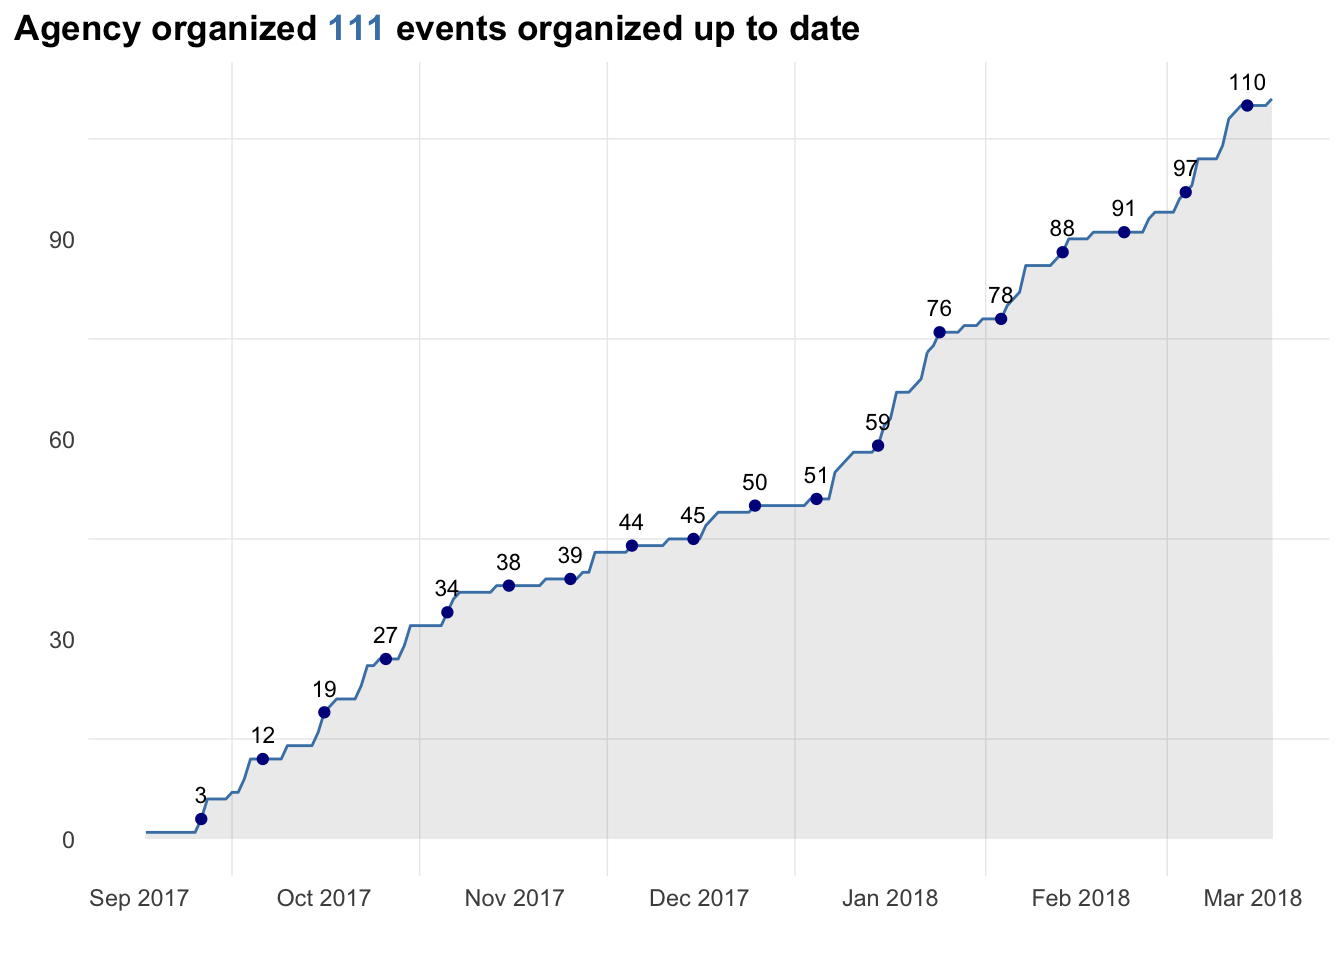
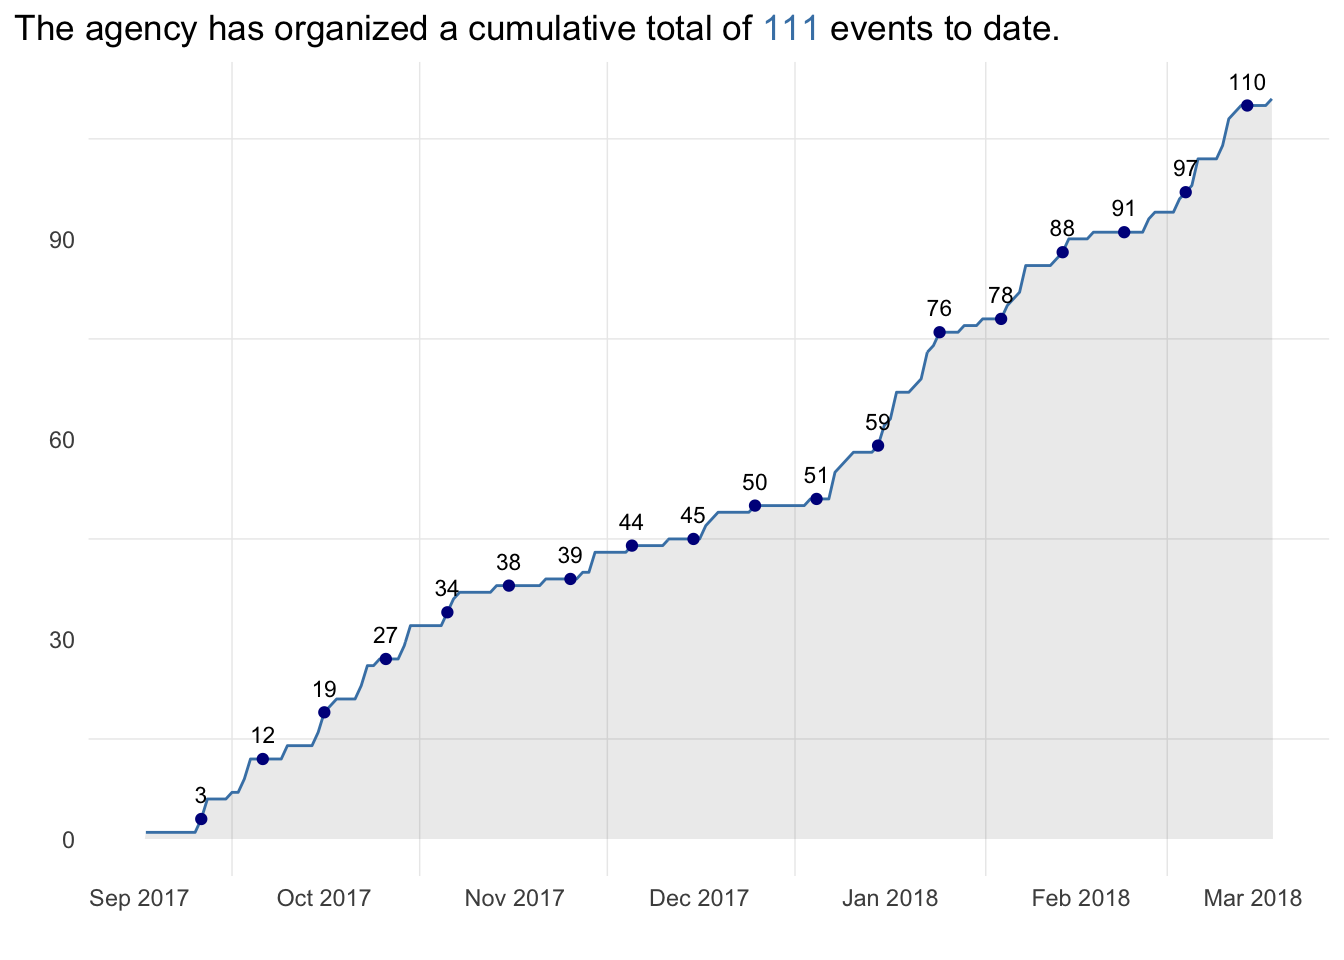
Typos

Changed region(s): [[0.0, 0.0, 0.7812, 0.0625]]

diff --git a/MusicAgency.html b/MusicAgency.html
@@ -117,23 +117,23 @@ ul.task-list li input[type="checkbox"] {
 <div class="cell">
 <div class="cell-output-display">
 
-<div id="fhxwjluewz" style="padding-left:0px;padding-right:0px;padding-top:10px;padding-bottom:10px;overflow-x:auto;overflow-y:auto;width:auto;height:auto;">
-<style>#fhxwjluewz table {
+<div id="oifuolgsck" style="padding-left:0px;padding-right:0px;padding-top:10px;padding-bottom:10px;overflow-x:auto;overflow-y:auto;width:auto;height:auto;">
+<style>#oifuolgsck table {
   font-family: system-ui, 'Segoe UI', Roboto, Helvetica, Arial, sans-serif, 'Apple Color Emoji', 'Segoe UI Emoji', 'Segoe UI Symbol', 'Noto Color Emoji';
   -webkit-font-smoothing: antialiased;
   -moz-osx-font-smoothing: grayscale;
 }
 
-#fhxwjluewz thead, #fhxwjluewz tbody, #fhxwjluewz tfoot, #fhxwjluewz tr, #fhxwjluewz td, #fhxwjluewz th {
+#oifuolgsck thead, #oifuolgsck tbody, #oifuolgsck tfoot, #oifuolgsck tr, #oifuolgsck td, #oifuolgsck th {
   border-style: none;
 }
 
-#fhxwjluewz p {
+#oifuolgsck p {
   margin: 0;
   padding: 0;
 }
 
-#fhxwjluewz .gt_table {
+#oifuolgsck .gt_table {
   display: table;
   border-collapse: collapse;
   line-height: normal;
@@ -159,12 +159,12 @@ ul.task-list li input[type="checkbox"] {
   border-left-color: #D3D3D3;
 }
 
-#fhxwjluewz .gt_caption {
+#oifuolgsck .gt_caption {
   padding-top: 4px;
   padding-bottom: 4px;
 }
 
-#fhxwjluewz .gt_title {
+#oifuolgsck .gt_title {
   color: #333333;
   font-size: 125%;
   font-weight: initial;
@@ -176,7 +176,7 @@ ul.task-list li input[type="checkbox"] {
   border-bottom-width: 0;
 }
 
-#fhxwjluewz .gt_subtitle {
+#oifuolgsck .gt_subtitle {
   color: #333333;
   font-size: 12px;
   font-weight: initial;
@@ -188,7 +188,7 @@ ul.task-list li input[type="checkbox"] {
   border-top-width: 0;
 }
 
-#fhxwjluewz .gt_heading {
+#oifuolgsck .gt_heading {
   background-color: #FFFFFF;
   text-align: left;
   border-bottom-color: #FFFFFF;
@@ -200,13 +200,13 @@ ul.task-list li input[type="checkbox"] {
   border-right-color: #D3D3D3;
 }
 
-#fhxwjluewz .gt_bottom_border {
+#oifuolgsck .gt_bottom_border {
   border-bottom-style: solid;
   border-bottom-width: 2px;
   border-bottom-color: #D3D3D3;
 }
 
-#fhxwjluewz .gt_col_headings {
+#oifuolgsck .gt_col_headings {
   border-top-style: solid;
   border-top-width: 2px;
   border-top-color: #D3D3D3;
@@ -221,7 +221,7 @@ ul.task-list li input[type="checkbox"] {
   border-right-color: #D3D3D3;
 }
 
-#fhxwjluewz .gt_col_heading {
+#oifuolgsck .gt_col_heading {
   color: #333333;
   background-color: #FFFFFF;
   font-size: 100%;
@@ -241,7 +241,7 @@ ul.task-list li input[type="checkbox"] {
   overflow-x: hidden;
 }
 
-#fhxwjluewz .gt_column_spanner_outer {
+#oifuolgsck .gt_column_spanner_outer {
   color: #333333;
   background-color: #FFFFFF;
   font-size: 100%;
@@ -253,15 +253,15 @@ ul.task-list li input[type="checkbox"] {
   padding-right: 4px;
 }
 
-#fhxwjluewz .gt_column_spanner_outer:first-child {
+#oifuolgsck .gt_column_spanner_outer:first-child {
   padding-left: 0;
 }
 
-#fhxwjluewz .gt_column_spanner_outer:last-child {
+#oifuolgsck .gt_column_spanner_outer:last-child {
   padding-right: 0;
 }
 
-#fhxwjluewz .gt_column_spanner {
+#oifuolgsck .gt_column_spanner {
   border-bottom-style: solid;
   border-bottom-width: 3px;
   border-bottom-color: #000000;
@@ -273,11 +273,11 @@ ul.task-list li input[type="checkbox"] {
   width: 100%;
 }
 
-#fhxwjluewz .gt_spanner_row {
+#oifuolgsck .gt_spanner_row {
   border-bottom-style: hidden;
 }
 
-#fhxwjluewz .gt_group_heading {
+#oifuolgsck .gt_group_heading {
   padding-top: 8px;
   padding-bottom: 8px;
   padding-left: 5px;
@@ -303,7 +303,7 @@ ul.task-list li input[type="checkbox"] {
   text-align: left;
 }
 
-#fhxwjluewz .gt_empty_group_heading {
+#oifuolgsck .gt_empty_group_heading {
   padding: 0.5px;
   color: #333333;
   background-color: #FFFFFF;
@@ -318,15 +318,15 @@ ul.task-list li input[type="checkbox"] {
   vertical-align: middle;
 }
 
-#fhxwjluewz .gt_from_md > :first-child {
+#oifuolgsck .gt_from_md > :first-child {
   margin-top: 0;
 }
 
-#fhxwjluewz .gt_from_md > :last-child {
+#oifuolgsck .gt_from_md > :last-child {
   margin-bottom: 0;
 }
 
-#fhxwjluewz .gt_row {
+#oifuolgsck .gt_row {
   padding-top: 8px;
   padding-bottom: 8px;
   padding-left: 5px;
@@ -345,7 +345,7 @@ ul.task-list li input[type="checkbox"] {
   overflow-x: hidden;
 }
 
-#fhxwjluewz .gt_stub {
+#oifuolgsck .gt_stub {
   color: #333333;
   background-color: #FFFFFF;
   font-size: 100%;
@@ -358,7 +358,7 @@ ul.task-list li input[type="checkbox"] {
   padding-right: 5px;
 }
 
-#fhxwjluewz .gt_stub_row_group {
+#oifuolgsck .gt_stub_row_group {
   color: #333333;
   background-color: #FFFFFF;
   font-size: 100%;
@@ -372,15 +372,15 @@ ul.task-list li input[type="checkbox"] {
   vertical-align: top;
 }
 
-#fhxwjluewz .gt_row_group_first td {
+#oifuolgsck .gt_row_group_first td {
   border-top-width: 2px;
 }
 
-#fhxwjluewz .gt_row_group_first th {
+#oifuolgsck .gt_row_group_first th {
   border-top-width: 2px;
 }
 
-#fhxwjluewz .gt_summary_row {
+#oifuolgsck .gt_summary_row {
   color: #333333;
   background-color: #FFFFFF;
   text-transform: inherit;
@@ -390,16 +390,16 @@ ul.task-list li input[type="checkbox"] {
   padding-right: 5px;
 }
 
-#fhxwjluewz .gt_first_summary_row {
+#oifuolgsck .gt_first_summary_row {
   border-top-style: solid;
   border-top-color: #D3D3D3;
 }
 
-#fhxwjluewz .gt_first_summary_row.thick {
+#oifuolgsck .gt_first_summary_row.thick {
   border-top-width: 2px;
 }
 
-#fhxwjluewz .gt_last_summary_row {
+#oifuolgsck .gt_last_summary_row {
   padding-top: 8px;
   padding-bottom: 8px;
   padding-left: 5px;
@@ -409,7 +409,7 @@ ul.task-list li input[type="checkbox"] {
   border-bottom-color: #D3D3D3;
 }
 
-#fhxwjluewz .gt_grand_summary_row {
+#oifuolgsck .gt_grand_summary_row {
   color: #333333;
   background-color: #FFFFFF;
   text-transform: inherit;
@@ -419,7 +419,7 @@ ul.task-list li input[type="checkbox"] {
   padding-right: 5px;
 }
 
-#fhxwjluewz .gt_first_grand_summary_row {
+#oifuolgsck .gt_first_grand_summary_row {
   padding-top: 8px;
   padding-bottom: 8px;
   padding-left: 5px;
@@ -429,7 +429,7 @@ ul.task-list li input[type="checkbox"] {
   border-top-color: #D3D3D3;
 }
 
-#fhxwjluewz .gt_last_grand_summary_row_top {
+#oifuolgsck .gt_last_grand_summary_row_top {
   padding-top: 8px;
   padding-bottom: 8px;
   padding-left: 5px;
@@ -439,11 +439,11 @@ ul.task-list li input[type="checkbox"] {
   border-bottom-color: #D3D3D3;
 }
 
-#fhxwjluewz .gt_striped {
+#oifuolgsck .gt_striped {
   background-color: rgba(128, 128, 128, 0.05);
 }
 
-#fhxwjluewz .gt_table_body {
+#oifuolgsck .gt_table_body {
   border-top-style: solid;
   border-top-width: 2px;
   border-top-color: #D3D3D3;
@@ -452,7 +452,7 @@ ul.task-list li input[type="checkbox"] {
   border-bottom-color: #D3D3D3;
 }
 
-#fhxwjluewz .gt_footnotes {
+#oifuolgsck .gt_footnotes {
   color: #333333;
   background-color: #FFFFFF;
   border-bottom-style: none;
@@ -466,7 +466,7 @@ ul.task-list li input[type="checkbox"] {
   border-right-color: #D3D3D3;
 }
 
-#fhxwjluewz .gt_footnote {
+#oifuolgsck .gt_footnote {
   margin: 0px;
   font-size: 90%;
   padding-top: 4px;
@@ -475,7 +475,7 @@ ul.task-list li input[type="checkbox"] {
   padding-right: 5px;
 }
 
-#fhxwjluewz .gt_sourcenotes {
+#oifuolgsck .gt_sourcenotes {
   color: #333333;
   background-color: #FFFFFF;
   border-bottom-style: none;
@@ -489,7 +489,7 @@ ul.task-list li input[type="checkbox"] {
   border-right-color: #D3D3D3;
 }
 
-#fhxwjluewz .gt_sourcenote {
+#oifuolgsck .gt_sourcenote {
   font-size: 90%;
   padding-top: 4px;
   padding-bottom: 4px;
@@ -497,72 +497,72 @@ ul.task-list li input[type="checkbox"] {
   padding-right: 5px;
 }
 
-#fhxwjluewz .gt_left {
+#oifuolgsck .gt_left {
   text-align: left;
 }
 
-#fhxwjluewz .gt_center {
+#oifuolgsck .gt_center {
   text-align: center;
 }
 
-#fhxwjluewz .gt_right {
+#oifuolgsck .gt_right {
   text-align: right;
   font-variant-numeric: tabular-nums;
 }
 
-#fhxwjluewz .gt_font_normal {
+#oifuolgsck .gt_font_normal {
   font-weight: normal;
 }
 
-#fhxwjluewz .gt_font_bold {
+#oifuolgsck .gt_font_bold {
   font-weight: bold;
 }
 
-#fhxwjluewz .gt_font_italic {
+#oifuolgsck .gt_font_italic {
   font-style: italic;
 }
 
-#fhxwjluewz .gt_super {
+#oifuolgsck .gt_super {
   font-size: 65%;
 }
 
-#fhxwjluewz .gt_footnote_marks {
+#oifuolgsck .gt_footnote_marks {
   font-size: 75%;
   vertical-align: 0.4em;
   position: initial;
 }
 
-#fhxwjluewz .gt_asterisk {
+#oifuolgsck .gt_asterisk {
   font-size: 100%;
   vertical-align: 0;
 }
 
-#fhxwjluewz .gt_indent_1 {
+#oifuolgsck .gt_indent_1 {
   text-indent: 5px;
 }
 
-#fhxwjluewz .gt_indent_2 {
+#oifuolgsck .gt_indent_2 {
   text-indent: 10px;
 }
 
-#fhxwjluewz .gt_indent_3 {
+#oifuolgsck .gt_indent_3 {
   text-indent: 15px;
 }
 
-#fhxwjluewz .gt_indent_4 {
+#oifuolgsck .gt_indent_4 {
   text-indent: 20px;
 }
 
-#fhxwjluewz .gt_indent_5 {
+#oifuolgsck .gt_indent_5 {
   text-indent: 25px;
 }
 
-#fhxwjluewz .katex-display {
+#oifuolgsck .katex-display {
   display: inline-flex !important;
   margin-bottom: 0.75em !important;
 }
 
-#fhxwjluewz div.Reactable > div.rt-table > div.rt-thead > div.rt-tr.rt-tr-group-header > div.rt-th-group:after {
+#oifuolgsck div.Reactable > div.rt-table > div.rt-thead > div.rt-tr.rt-tr-group-header > div.rt-th-group:after {
   height: 0px !important;
 }
 </style>
